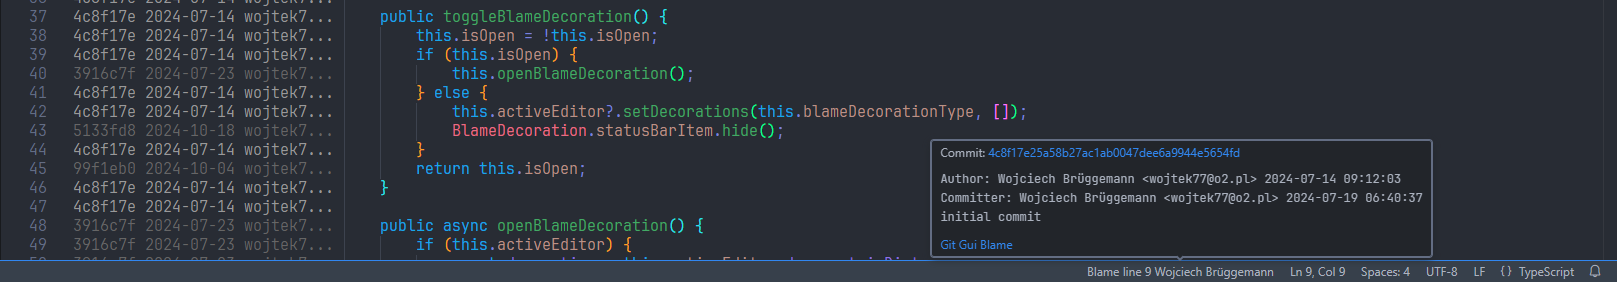
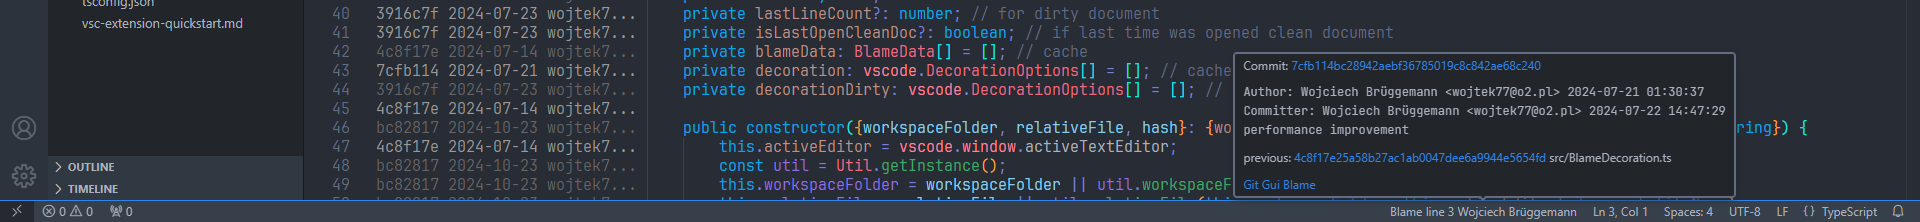
switch off link to Git Gui Blame for tmp documents and others

Changed region(s): [[0.0, 0.0, 1.0, 1.0], [0.6494, 0.2162, 0.8967, 0.2432], [0.8967, 0.5405, 0.9586, 0.6216]]

diff --git a/src/BlameDecoration.ts b/src/BlameDecoration.ts
@@ -4,6 +4,7 @@ import { DecorationDataAllClean } from './DecorationDataAllClean';
 import { DecorationDataAllDirty } from './DecorationDataAllDirty';
 import { StatusBarItemManager } from './StatusBarItemManager';
 import { Util } from './Util';
+import { BlameEditorProvider } from './BlameEditorProvider';
 
 /**
  * Represents blame decoration use in vscode
@@ -37,6 +38,7 @@ export class BlameDecoration {
     private readonly workspaceFolder;
     private readonly relativeFile;
     private readonly hash;
+    private readonly isDocumentTmp;
     private lastLineCount?: number; // for dirty document
     private isLastOpenCleanDoc?: boolean; // if last time was opened clean document
     private blameData: BlameData[] = []; // cache
@@ -49,6 +51,7 @@ export class BlameDecoration {
         this.workspaceFolder = workspaceFolder || util.workspaceFolder();
         this.relativeFile = relativeFile || util.relativeFile(this.workspaceFolder, this.activeEditor!.document.fileName);
         this.hash = hash;
+        this.isDocumentTmp = this.activeEditor?.document.uri.scheme === BlameEditorProvider.scheme;
         // BlameDecoration.statusBarItem.command = 'gitBlameW77.runGitGuiBlameForFile';
     }
     
@@ -94,7 +97,7 @@ export class BlameDecoration {
                 BlameDecoration.statusBarItem.hide();
             } else {
                 const gitBlameUrl = await BlameDecoration.getGitBlameUrl();
-                new StatusBarItemManager(this.workspaceFolder, gitBlameUrl).show(BlameDecoration.statusBarItem, activeEditor, this.blameData);
+                new StatusBarItemManager(this.isDocumentTmp, this.workspaceFolder, gitBlameUrl).show(BlameDecoration.statusBarItem, activeEditor, this.blameData);
             }
         }
     }
@@ -114,7 +117,7 @@ export class BlameDecoration {
         }
         this.blameData = blameData;
         const gitBlameUrl = await BlameDecoration.getGitBlameUrl();
-        const decoration = new DecorationDataAllClean(this.workspaceFolder, gitBlameUrl).getData(document, this.blameData);
+        const decoration = new DecorationDataAllClean(this.isDocumentTmp, this.workspaceFolder, gitBlameUrl).getData(document, this.blameData);
         this.decoration = decoration;
         this.lastSavedVersion = document.version;
         return decoration;

diff --git a/src/StatusBarItemManager.ts b/src/StatusBarItemManager.ts
@@ -7,11 +7,12 @@ import { DecorationDataBase as DecorationDataBase } from './DecorationDataBase';
  * @author Wojciech Brüggemann <wojtek77@o2.pl>
  */
 export class StatusBarItemManager extends DecorationDataBase {
-    public constructor(workspaceFolder: string, gitBlameUrl?: string) {
+    public constructor(isDocumentTmp: boolean, workspaceFolder: string, gitBlameUrl?: string) {
         super();
         this.workspaceFolder = workspaceFolder;
         this.gitBlameUrl = gitBlameUrl;
         this.dateLocale = vscode.workspace.getConfiguration('gitBlameW77').dateLocale || undefined;
+        this.hoverShowLinkToGitGuiBlame = !isDocumentTmp && vscode.workspace.getConfiguration('gitBlameW77').hoverShowLinkToGitGuiBlame;
     }
     
     public show(statusBarItem: vscode.StatusBarItem, activeEditor: vscode.TextEditor, blameData: BlameData[]) {
@@ -19,7 +20,7 @@ export class StatusBarItemManager extends DecorationDataBase {
         if (blameData[lineNumber] !== undefined && blameData[lineNumber].isCommitted) {
             const rec = blameData[lineNumber];
             statusBarItem.text = `Blame line ${lineNumber} ${rec.author}`;
-            statusBarItem.tooltip = this._lineMessage(rec, true, true);
+            statusBarItem.tooltip = this._lineMessage(rec, true, this.hoverShowLinkToGitGuiBlame);
             statusBarItem.show();
         } else {
             statusBarItem.hide();

diff --git a/src/DecorationDataAllClean.ts b/src/DecorationDataAllClean.ts
@@ -7,7 +7,7 @@ import { DecorationDataBase } from './DecorationDataBase';
  * @author Wojciech Brüggemann <wojtek77@o2.pl>
  */
 export class DecorationDataAllClean extends DecorationDataBase {
-    public constructor(workspaceFolder: string, gitBlameUrl?: string) {
+    public constructor(isDocumentTmp: boolean, workspaceFolder: string, gitBlameUrl?: string) {
         super();
         this.workspaceFolder = workspaceFolder;
         this.gitBlameUrl = gitBlameUrl;
@@ -19,7 +19,7 @@ export class DecorationDataAllClean extends DecorationDataBase {
         this.dateLocale = vscode.workspace.getConfiguration('gitBlameW77').dateLocale || undefined;
         this.decorationShowHash = vscode.workspace.getConfiguration('gitBlameW77').decorationShowHash;
         this.hoverEnabled = vscode.workspace.getConfiguration('editor.hover').enabled;
-        this.hoverShowLinkToGitGuiBlame = vscode.workspace.getConfiguration('gitBlameW77').hoverShowLinkToGitGuiBlame;
+        this.hoverShowLinkToGitGuiBlame = !isDocumentTmp && vscode.workspace.getConfiguration('gitBlameW77').hoverShowLinkToGitGuiBlame;
         this.noRecText = this._emptyLine;
     }
     

diff --git a/src/extension.ts b/src/extension.ts
@@ -2,7 +2,6 @@ import * as vscode from 'vscode';
 import { Command } from './Command';
 import { BlameDecoration } from './BlameDecoration';
 import { BlameEditorProvider } from './BlameEditorProvider';
-import { Util } from './Util';
 
 // this method is called when vs code is activated
 export function activate(context: vscode.ExtensionContext) {

diff --git a/src/BlameEditorProvider.ts b/src/BlameEditorProvider.ts
@@ -16,7 +16,7 @@ export class BlameEditorProvider implements vscode.TextDocumentContentProvider {
         return this.instance;
     }
     
-    public static readonly scheme = 'gitBlameW77.showBlamePrevious';
+    public static readonly scheme = 'gitBlameW77.BlameEditor';
     
     private workspaceFolder = '';
     private relativeFile = '';
